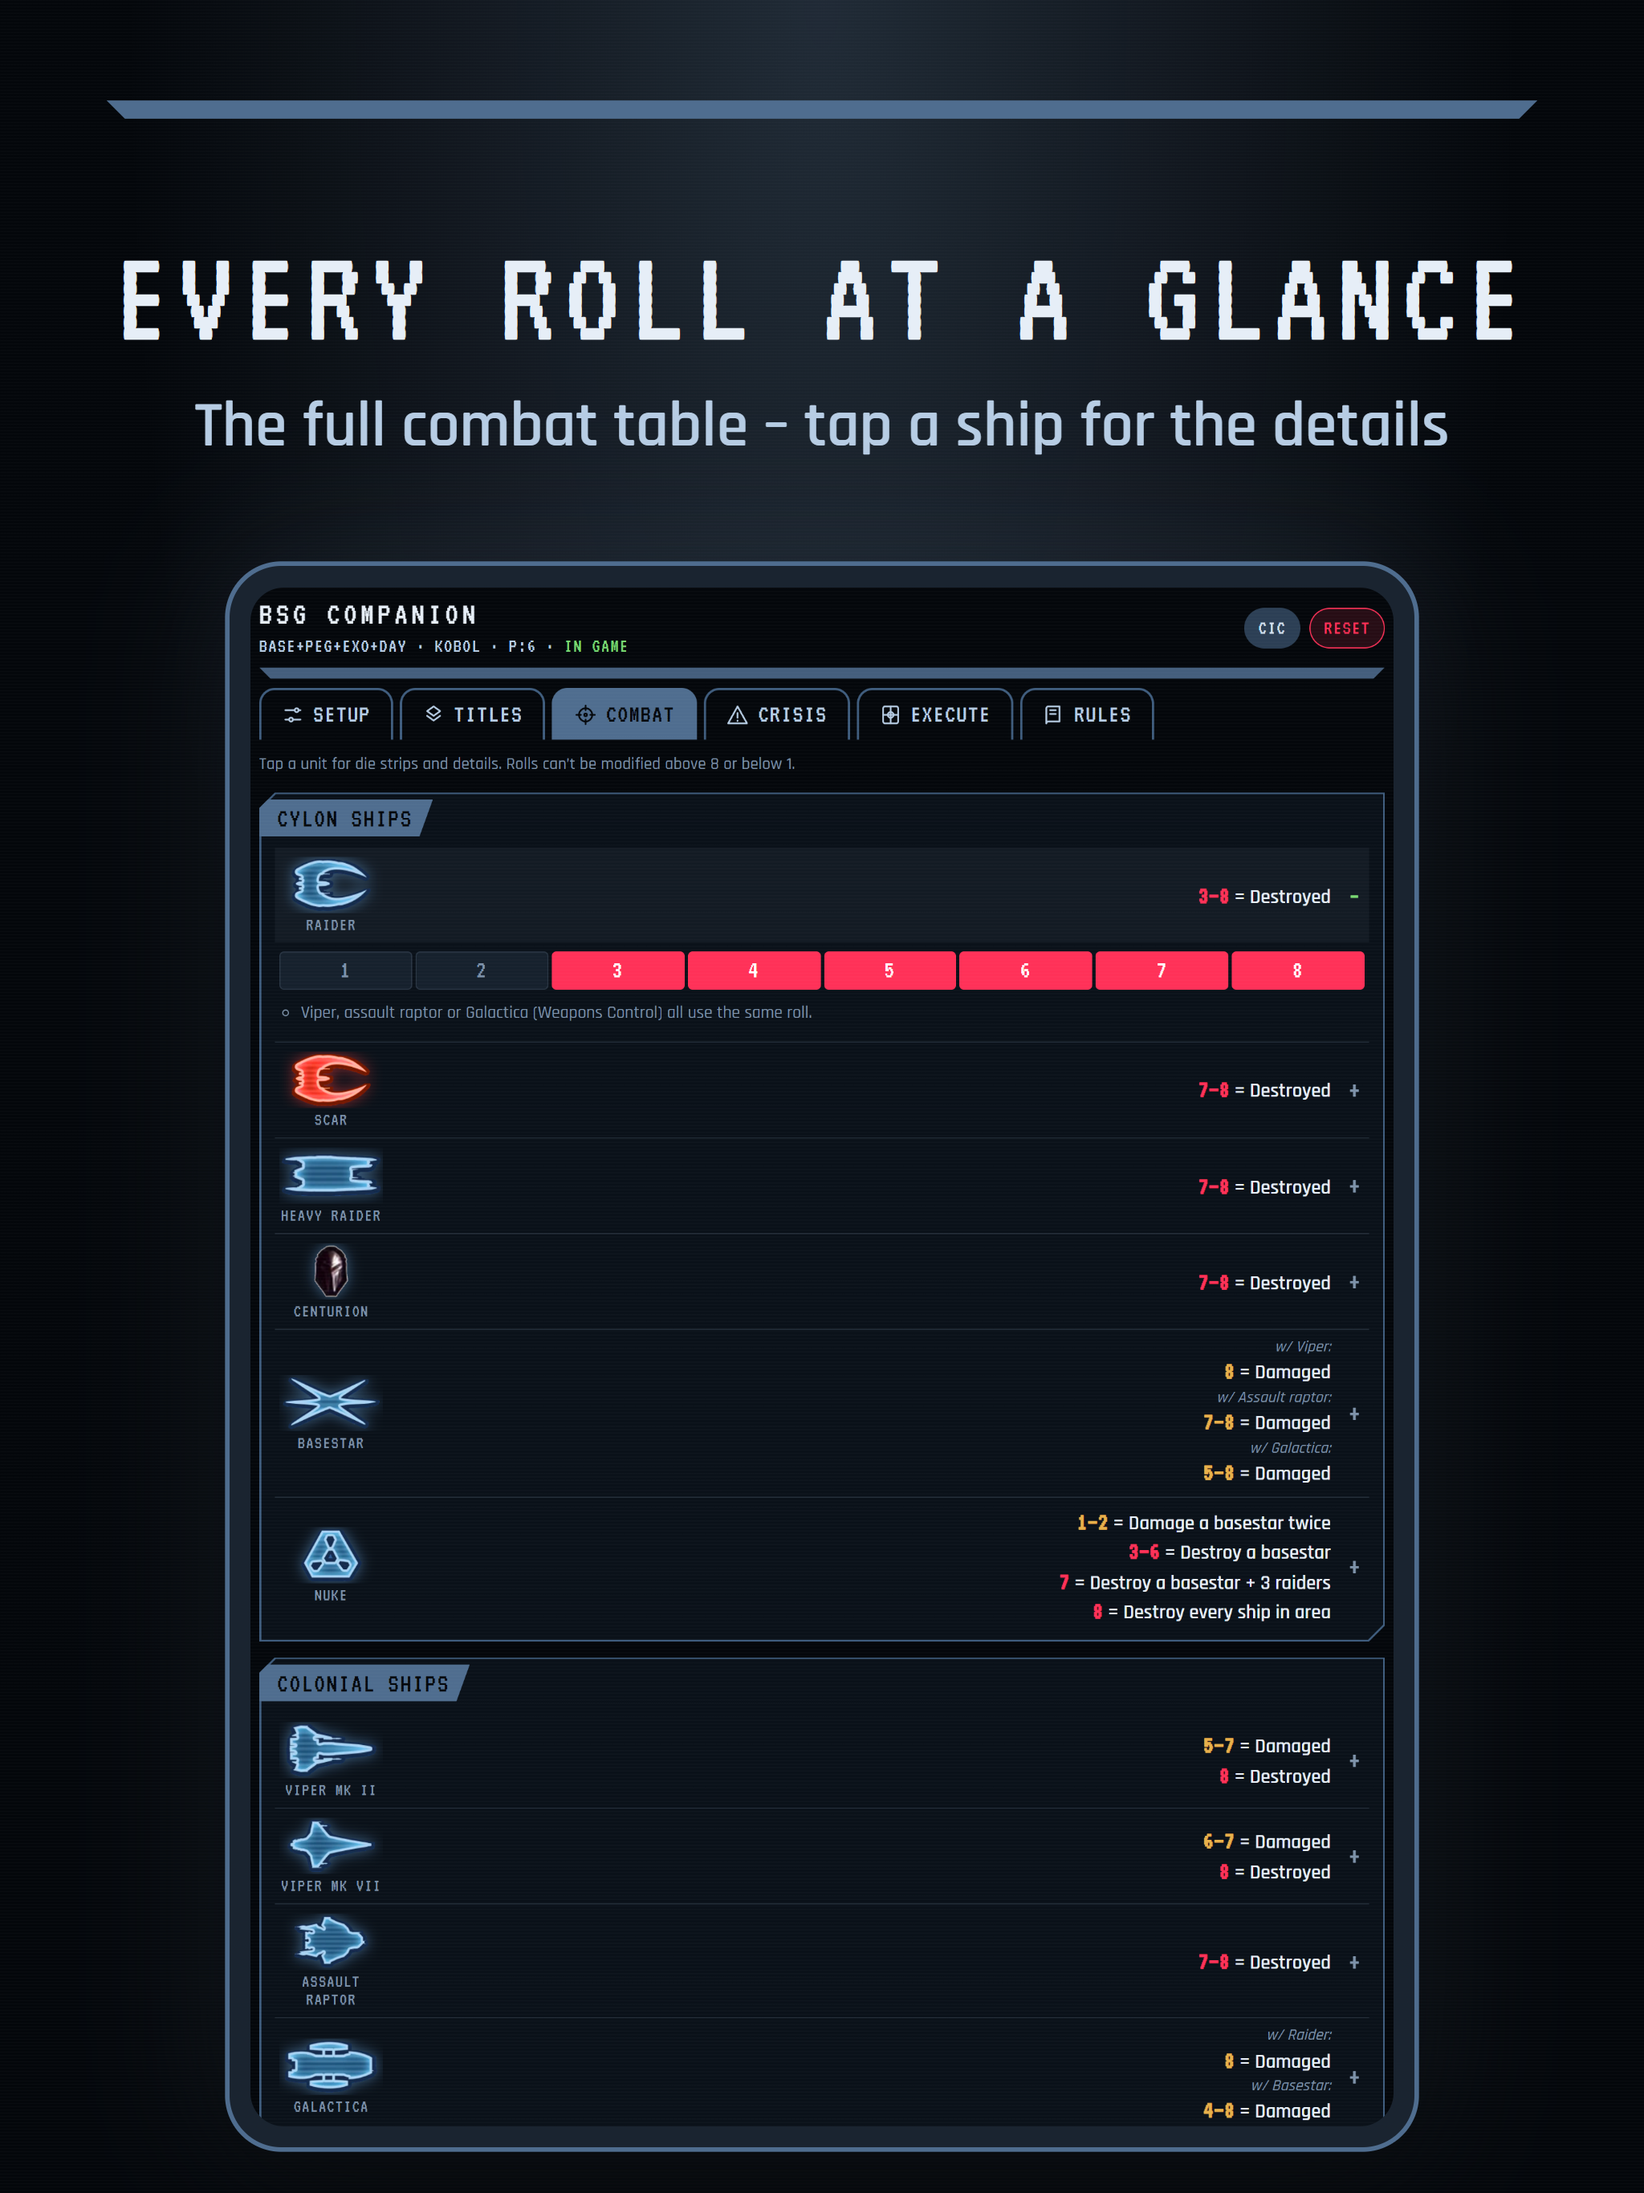
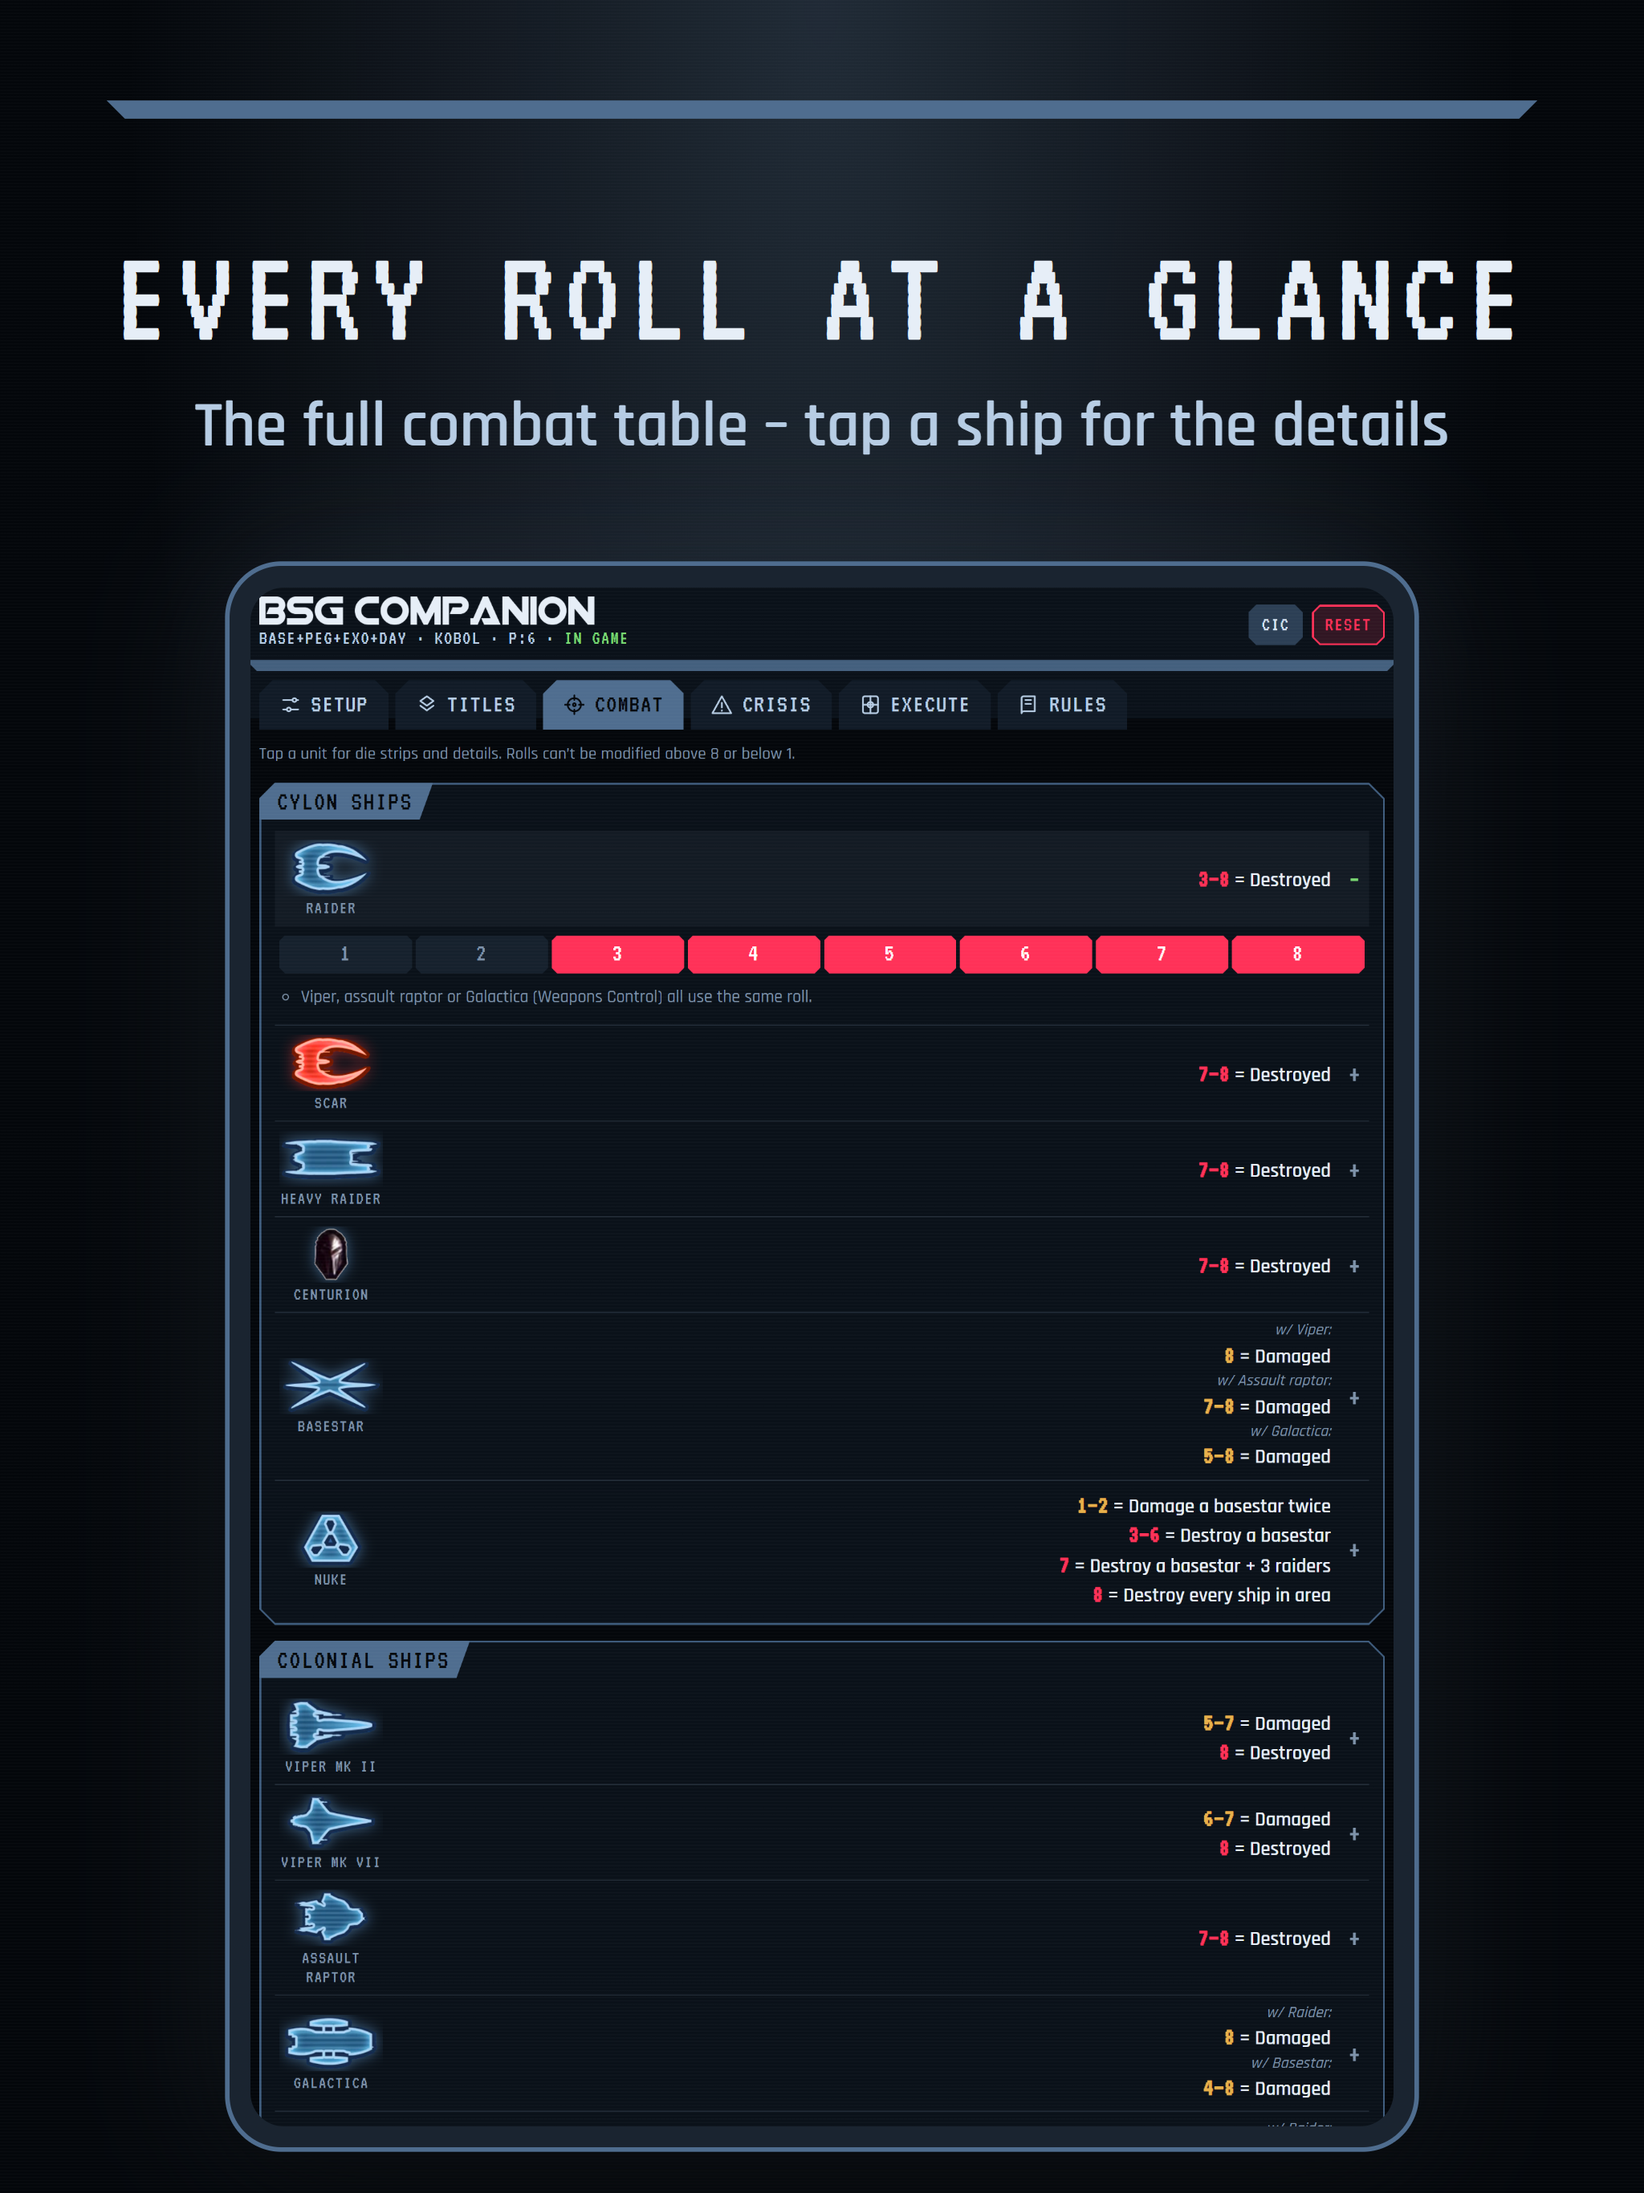
New generation of images. Chamfers on mobile devices for book theme

Changed region(s): [[0.1562, 0.2489, 0.8438, 0.9645], [0.6562, 0.5289, 0.8125, 0.7467], [0.7188, 0.7778, 0.8125, 0.9645]]

diff --git a/src/styles.css b/src/styles.css
@@ -908,9 +908,38 @@ button.xs, .segmented.xs button { font-size: 0.95rem; min-height: 28px; padding:
 :root[data-theme="rulebook"] body {
   background: repeating-linear-gradient(90deg, rgba(0, 0, 0, 0.014) 0 2px, transparent 2px 7px), var(--bg);
 }
+:root[data-theme="rulebook"] {
+  /* Page frame corners are cut at 45° by about the screen's corner radius (the bottom safe-area inset is a good
+     proxy: ~34px on rounded iPhones, 0 on desktop), so rounded screen corners don't swallow the red line. */
+  --frame-cut: var(--sa-bottom);
+}
+/* steel frame: the screen minus a chamfered octagon, 6.5px in from the edges. Each loop ends where it started, so
+   the joining segments retrace each other instead of enclosing a sliver. */
 :root[data-theme="rulebook"] body::after {
-  background: none;
-  box-shadow: inset 0 0 0 2px #3a3d42, inset 0 0 0 5px var(--rb-steel), inset 0 0 0 6.5px var(--rb-red);
+  background: var(--rb-steel);
+  clip-path: polygon(evenodd,
+    0 0, 100% 0, 100% 100%, 0 100%, 0 0,
+    calc(6.5px + var(--frame-cut)) 6.5px, calc(100% - 6.5px - var(--frame-cut)) 6.5px,
+    calc(100% - 6.5px) calc(6.5px + var(--frame-cut)), calc(100% - 6.5px) calc(100% - 6.5px - var(--frame-cut)),
+    calc(100% - 6.5px - var(--frame-cut)) calc(100% - 6.5px), calc(6.5px + var(--frame-cut)) calc(100% - 6.5px),
+    6.5px calc(100% - 6.5px - var(--frame-cut)), 6.5px calc(6.5px + var(--frame-cut)),
+    calc(6.5px + var(--frame-cut)) 6.5px);
+}
+/* red inner line: the ring between octagons at 5px and 6.5px; the outer cut is 0.88px longer so the diagonal is as
+   thick as the straight sides */
+:root[data-theme="rulebook"] body::before {
+  content: ""; position: fixed; inset: 0; z-index: 101; pointer-events: none; background: var(--rb-red);
+  --fo: calc(var(--frame-cut) + 0.88px);
+  clip-path: polygon(evenodd,
+    calc(5px + var(--fo)) 5px, calc(100% - 5px - var(--fo)) 5px,
+    calc(100% - 5px) calc(5px + var(--fo)), calc(100% - 5px) calc(100% - 5px - var(--fo)),
+    calc(100% - 5px - var(--fo)) calc(100% - 5px), calc(5px + var(--fo)) calc(100% - 5px),
+    5px calc(100% - 5px - var(--fo)), 5px calc(5px + var(--fo)), calc(5px + var(--fo)) 5px,
+    calc(6.5px + var(--frame-cut)) 6.5px, calc(100% - 6.5px - var(--frame-cut)) 6.5px,
+    calc(100% - 6.5px) calc(6.5px + var(--frame-cut)), calc(100% - 6.5px) calc(100% - 6.5px - var(--frame-cut)),
+    calc(100% - 6.5px - var(--frame-cut)) calc(100% - 6.5px), calc(6.5px + var(--frame-cut)) calc(100% - 6.5px),
+    6.5px calc(100% - 6.5px - var(--frame-cut)), 6.5px calc(6.5px + var(--frame-cut)),
+    calc(6.5px + var(--frame-cut)) 6.5px);
 }
 
 /* headings: dark small caps, no plates */
